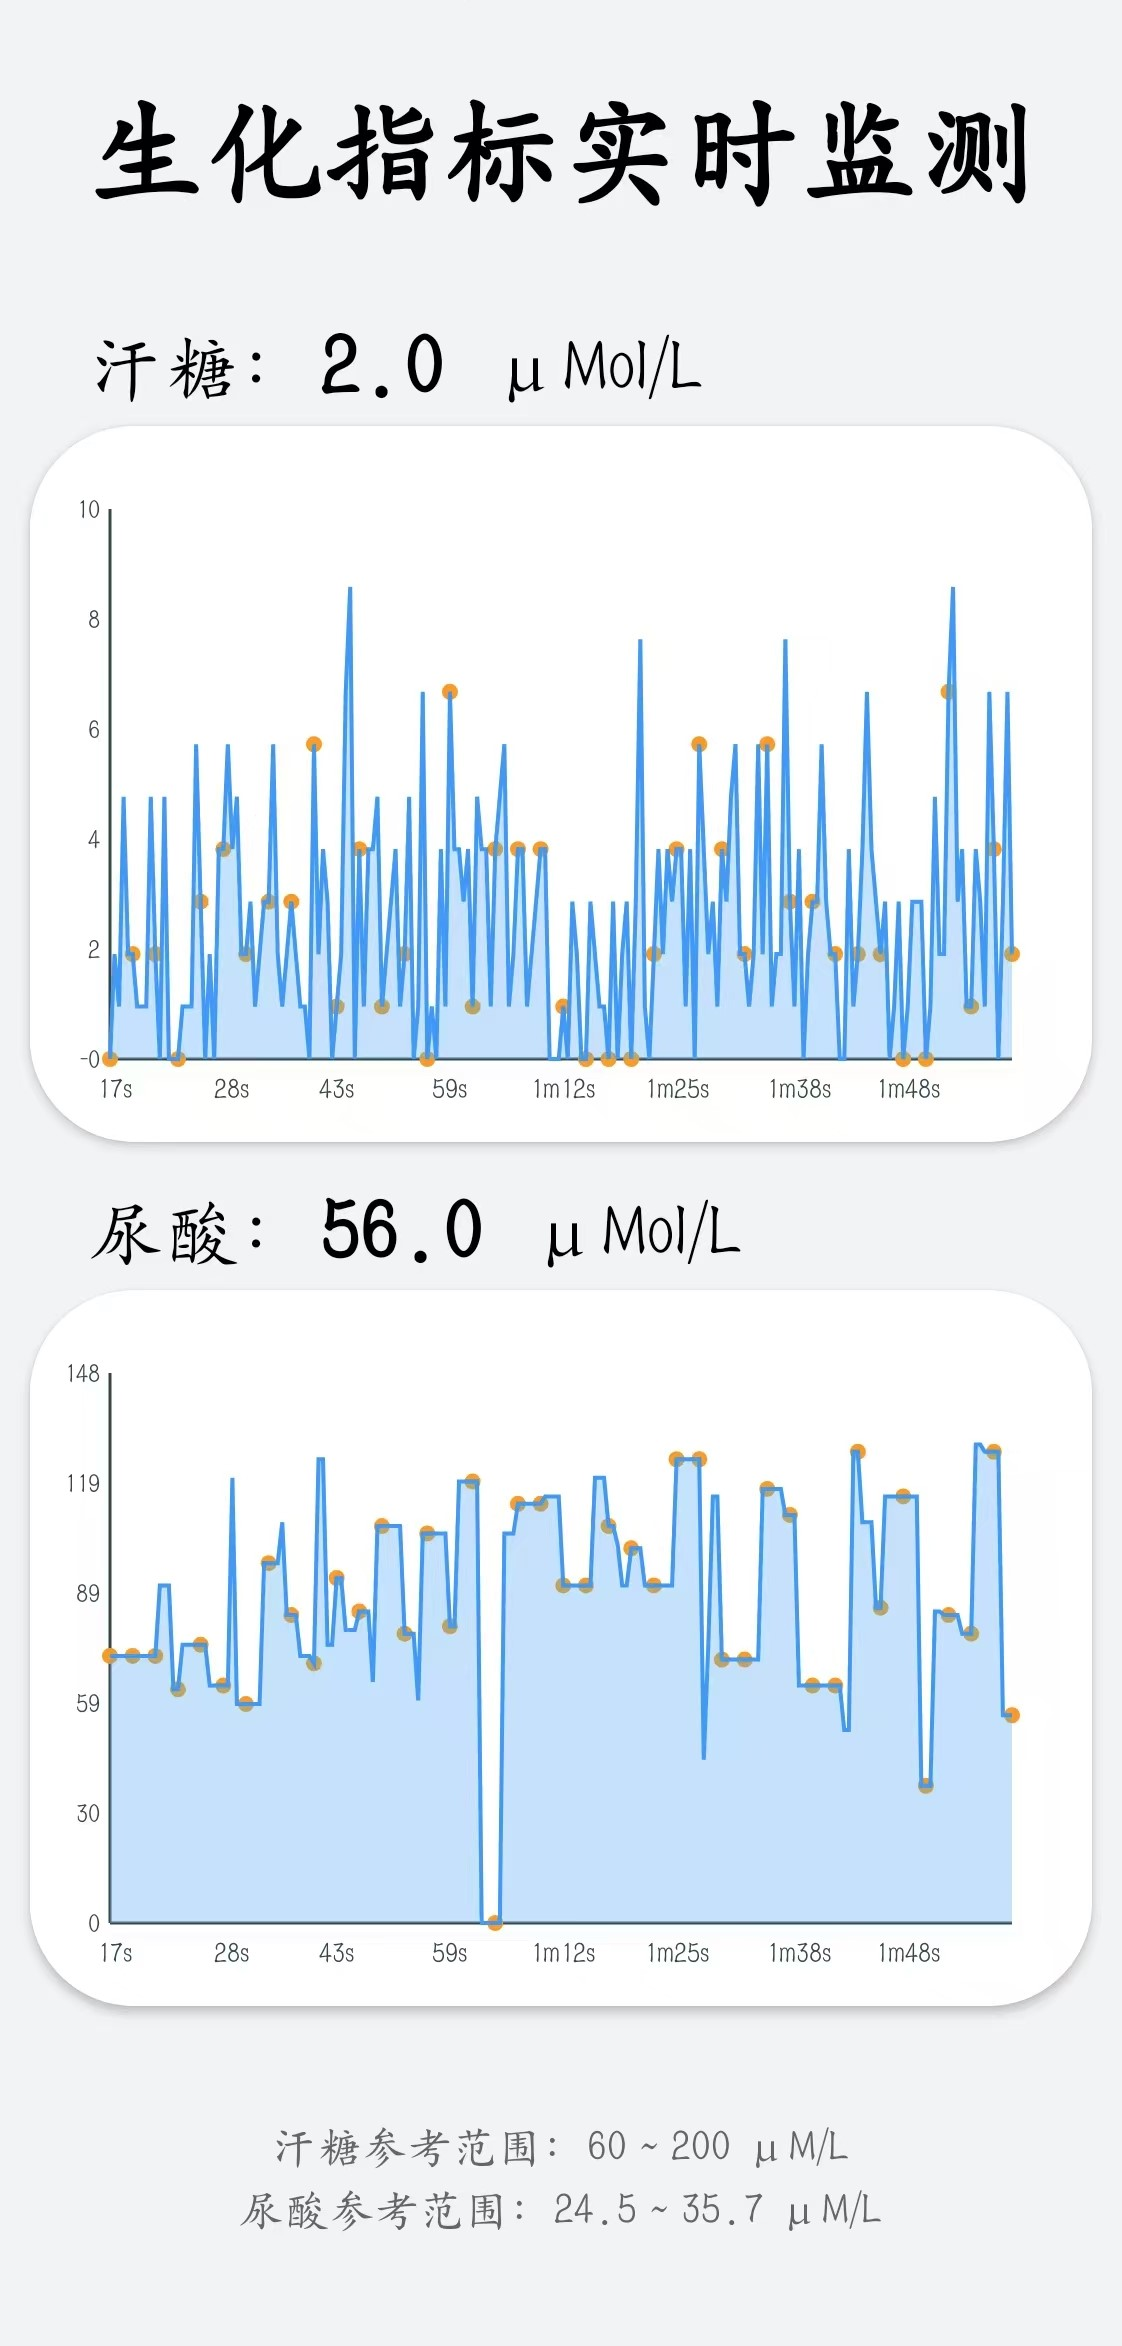
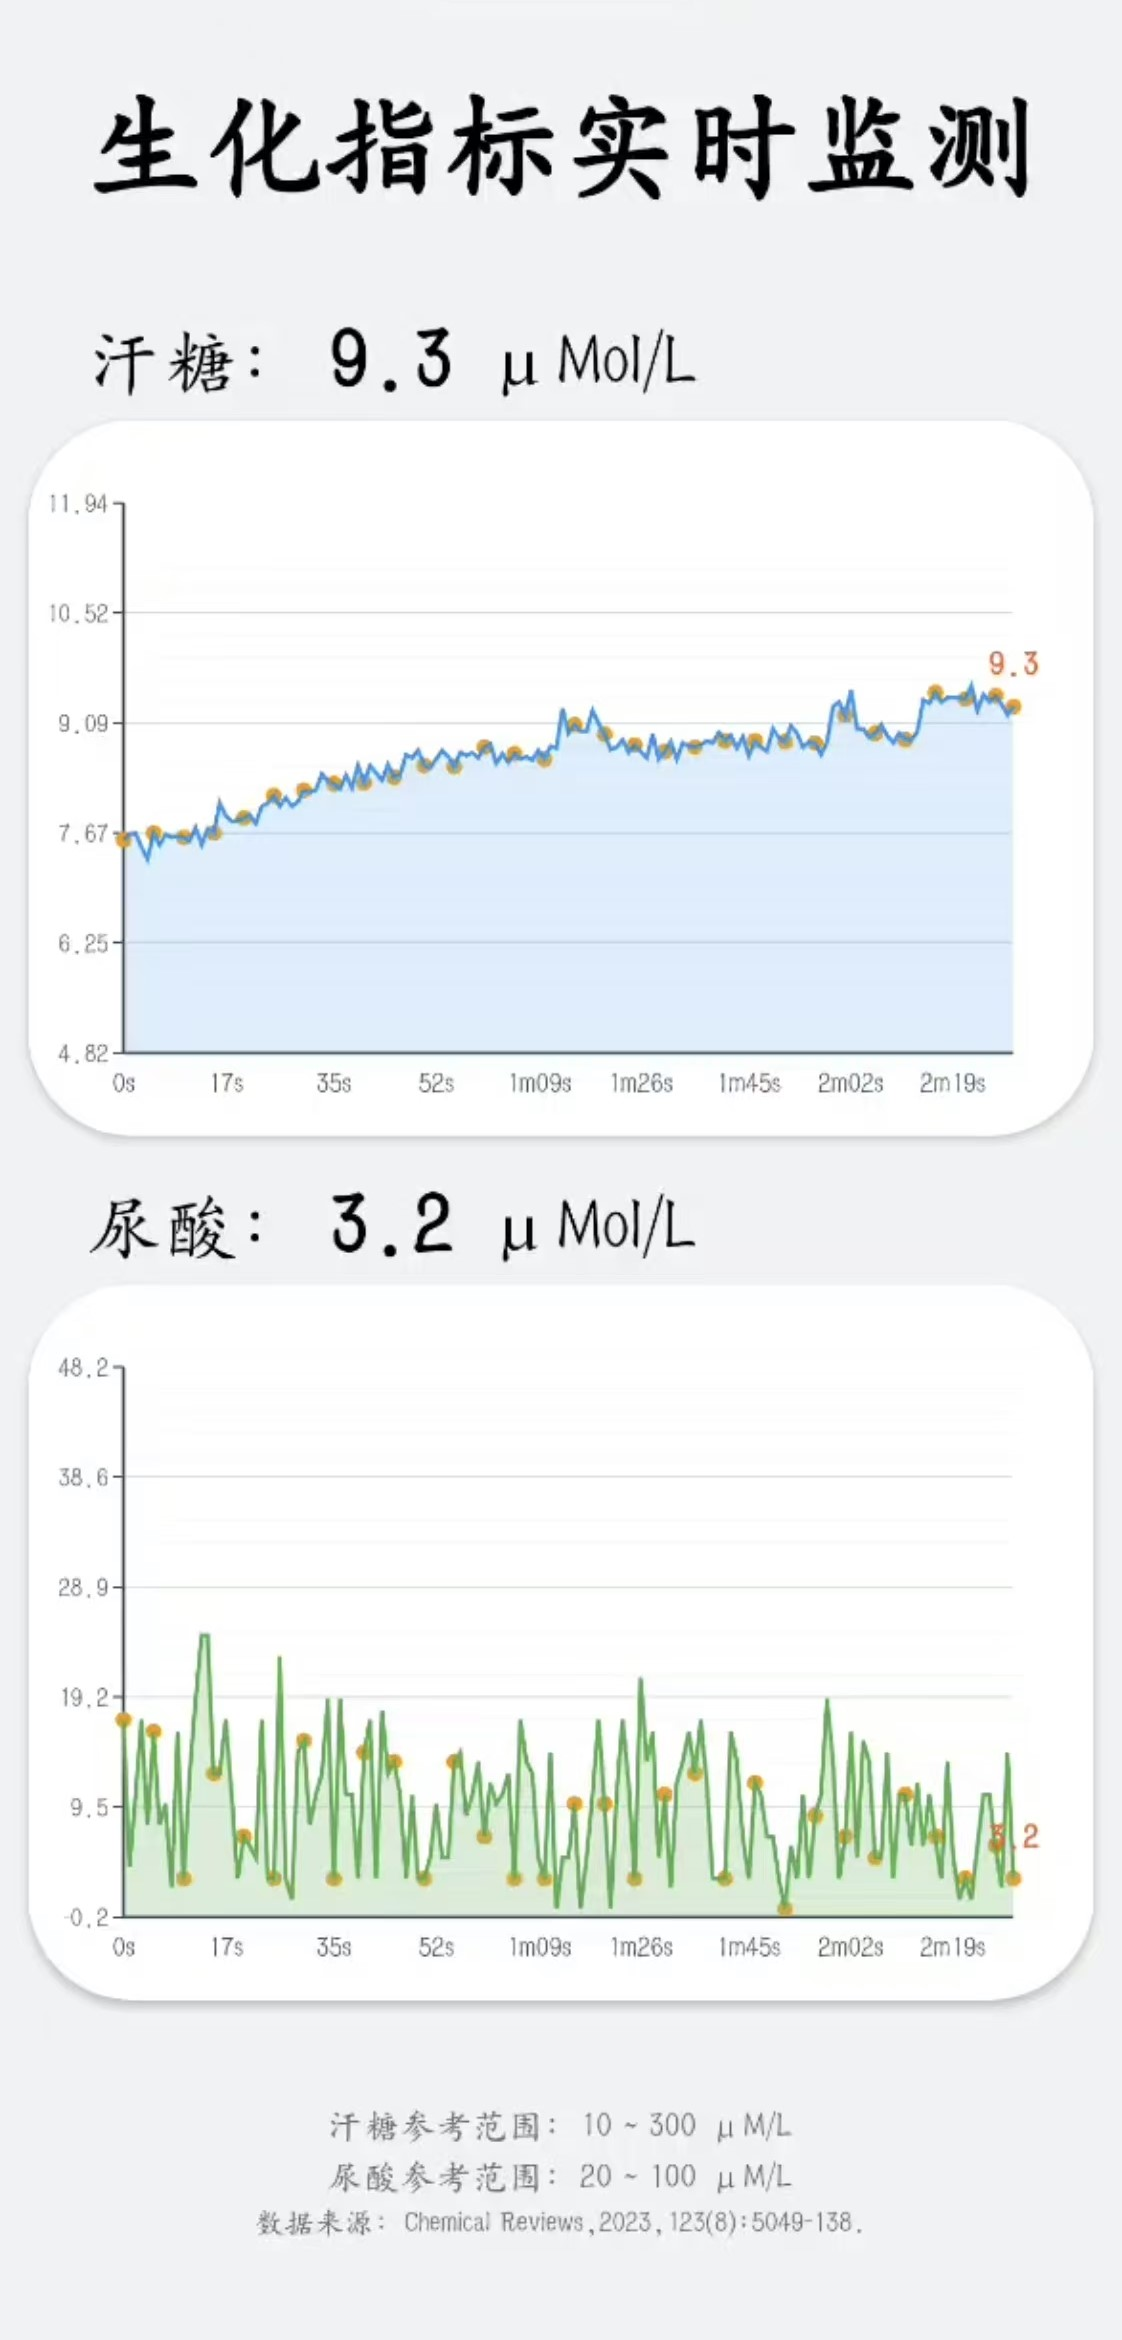
readme

diff --git a/app/src/main/java/USTB/AAIST/MyBluetoothManager.java b/app/src/main/java/USTB/AAIST/MyBluetoothManager.java
@@ -16,10 +16,9 @@ public class MyBluetoothManager {
     // 单例实例
     private static MyBluetoothManager instance;
     private String deviceAddress; // 添加设备地址存储
-    private static final String TAG = "MyBluetoothManagerJava";
+    private static final String TAG = "MyBluetoothManager";
     public static final int BLUETOOTH_PERMISSION_REQUEST_CODE = 1001; // 可以是任意唯一整数
     private BluetoothGattCallback bluetoothGattCallback;
-    
     // 实例变量
     private BLE bleInstance;
     private boolean isConnected = false;
@@ -27,6 +26,7 @@ public class MyBluetoothManager {
     private Context context; // 添加Context引用
     private BluetoothDevice bluetoothDevice;// 新增存储BluetoothDevice对象
     private BluetoothGattCallback mExternalCallback;
+
     //private BluetoothGattCallback mGattCallback;
 
     // 添加公共方法检查连接状态

diff --git a/README.md b/README.md
@@ -2,11 +2,11 @@
 
 ## 一、整体预览
 
-本软件项目是为适配本人研究生课题而做的Android版本手机APP以实现第二部分的预期功能，需要适配硬件（后续完善）。
+本软件项目是为适配本人研究生课题而做的Android版本手机APP以实现第二部分的预期功能，需要适配硬件检测项目使用（已完善）。注：下文中更详细的设计内容请参考本人的硕士论文相关章节（后续挂到Github）
 
 本项目所用的开发工具为Android Studio（Version：Koala）；Gradle构建版本：8.3；Target SDK Version：34（Android 14.0）；Min SDK Version：31（Android 12.0）；
 
-现在花费太多时间在UI设计上对于整个小项目的推进是来不及的，同时还有其他事情要做（实验、硬件等），所以UI上显得粗制滥造了些，功能简单所以UI页面也十分的简洁...
+现在花费太多时间在UI设计上对于整个小项目的推进是来不及的，同时还有其他事情要做（发电器件与汗液检测实验、检测硬件等），所以UI上显得粗制滥造了些，功能简单所以UI页面也十分的简洁...
 
 <img src=".\ReadmePic\0.jpg" alt="Splash" style="zoom:20%;" /><img src=".\ReadmePic\1.jpg" alt="SearchBLE" style="zoom:20%;" /><img src=".\ReadmePic\2.jpg" alt="SearchBLEList" style="zoom:20%;" />
 
@@ -786,9 +786,13 @@ public boolean onOptionsItemSelected(@NonNull MenuItem item) {
 3. **用户引导机制**
    - 未连接时明确提示 "请先连接蓝牙设备"
    - 提供快捷入口（菜单项）进入蓝牙连接页
-4. **模块化页面跳转**
+4. **模块化页面跳转与核心功能函数**
+
+
 
 ![](.\ReadmePic\liucheng.png)
+
+![](.\ReadmePic\5.png)
 
 ### 数据接收页面（Recdata）
 
